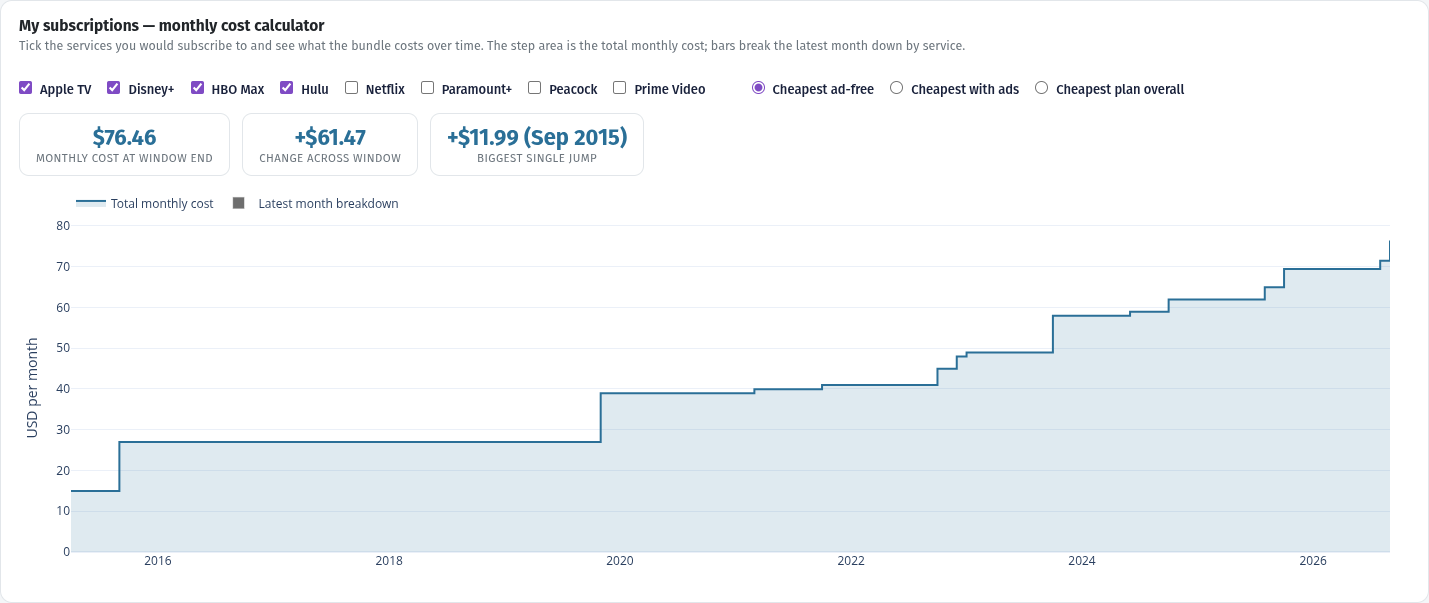
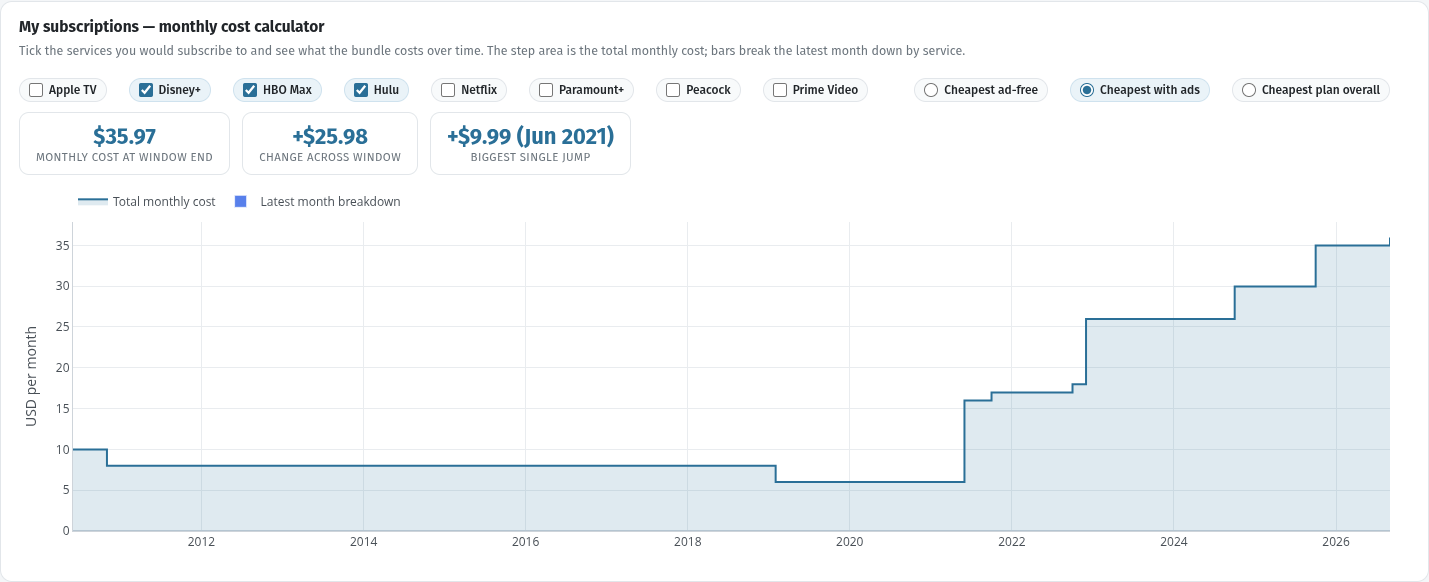
Theme the calculator's own controls
The calculator sits outside the control rail, so it never inherited the
rail's styling. Worse, the class it used (tier-checks) was styled by a rule
scoped to .rail that had already been removed - leaving Dash's defaults,
which paint near-black labels on the dark card and made the service and
mode options nearly invisible.

Give the checklist and radio group their own classes and themed CSS driven
by the same CSS variables as the rest of the dashboard. Labels now use the
theme text colour (9.2:1 contrast on the dark surface), checked options
get the accent border/soft background, and all controls remain clickable.

diff --git a/app/assets/style.css b/app/assets/style.css
@@ -295,7 +295,40 @@ body {
 
 /* calculator */
 .calc { margin-top: 18px; }
-.calc-controls { display: flex; gap: 30px; flex-wrap: wrap; margin-bottom: 8px; }
+.calc-controls {
+  display: flex; gap: 30px; flex-wrap: wrap; margin-bottom: 10px;
+}
+/* The calculator sits outside .rail, so it needs its own themed control CSS.
+   Without this, Dash's defaults paint near-black labels on the dark card. */
+.calc-checks, .calc-radios {
+  display: flex; flex-wrap: wrap; align-items: center;
+  gap: 6px; background: transparent !important;
+  border-width: 0 !important; padding: 0 !important;
+}
+.calc-checks label, .calc-radios label {
+  display: inline-flex; align-items: center; gap: 6px;
+  margin: 0; padding: 4px 9px;
+  font-size: 12px; font-weight: 500;
+  color: var(--text) !important;
+  background: var(--surface-2);
+  border: 1px solid var(--border);
+  border-radius: 999px; cursor: pointer; user-select: none;
+  transition: border-color 0.15s, background 0.15s;
+}
+.calc-checks label:hover, .calc-radios label:hover { border-color: var(--accent); }
+.calc-checks input, .calc-radios input {
+  accent-color: var(--accent);
+  width: 14px; height: 14px; margin: 0; cursor: pointer;
+}
+.calc-checks label:has(input:checked),
+.calc-radios label:has(input:checked) {
+  border-color: var(--accent-border);
+  background: var(--accent-soft);
+  color: var(--text) !important;
+}
+/* hide the option-text span wrappers only if they add no box */
+.calc-checks .dash-options-list-option-text,
+.calc-radios .dash-options-list-option-text { display: inline; }
 
 footer {
   margin-top: 26px; padding-top: 12px;

diff --git a/app/app.py b/app/app.py
@@ -234,11 +234,13 @@ app.layout = html.Div(className="page", children=[
                className="q"),
         html.Div(className="calc-controls", children=[
             dcc.Checklist(id="calc-services",
-                          options=[{"label": f" {s}", "value": s} for s in ALL_SERVICES],
-                          value=ALL_SERVICES[:4], inline=True, className="tier-checks"),
+                          options=[{"label": s, "value": s} for s in ALL_SERVICES],
+                          value=ALL_SERVICES[:4], inline=True,
+                          className="calc-checks"),
             dcc.RadioItems(id="calc-mode",
                            options=["Cheapest ad-free", "Cheapest with ads", "Cheapest plan overall"],
-                           value="Cheapest ad-free", inline=True, className="tier-checks"),
+                           value="Cheapest ad-free", inline=True,
+                           className="calc-radios"),
         ]),
         html.Div(id="calc-kpis", className="kpis", children=[
             html.Div([html.Div(id="ckpi1", className="kpi-v", children="–"),
